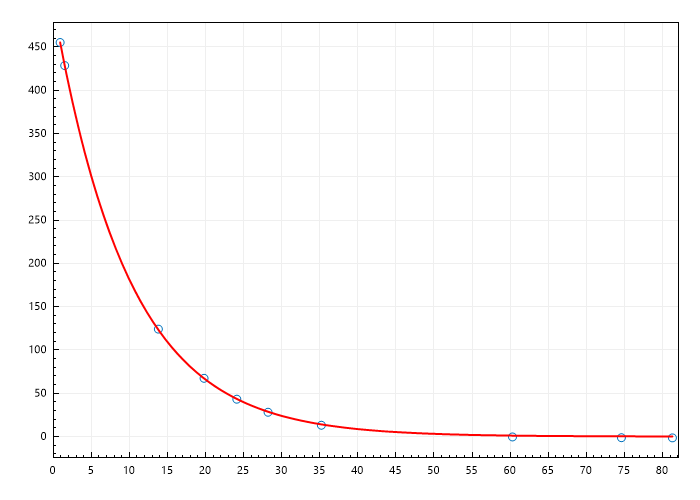
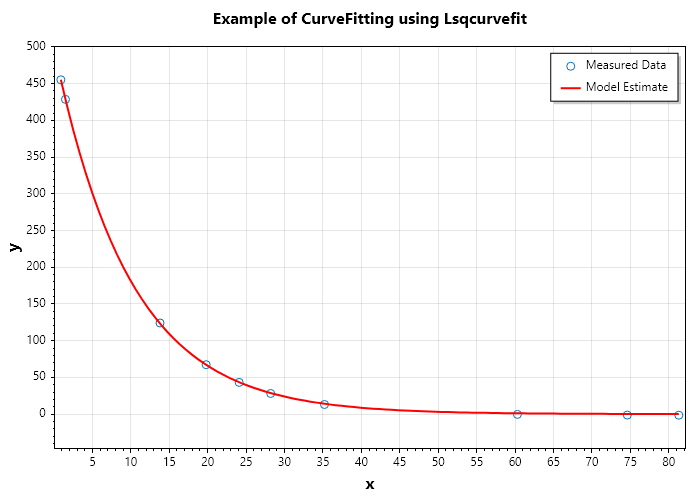
added new picture

diff --git a/docs/source/Optimization.rst b/docs/source/Optimization.rst
@@ -84,7 +84,7 @@ fzero also allows for more advanced usage with additional options:
    using static SepalSolver.Math;
 
    static double fun(double x) => Pow(x, 3) - 2 * x - 5;
-   var ops = SolverSet(Display: true);
+   var opts = SolverSet(Display: true);
    double x0 = 2;
    double root = Fzero(fun, x0, opts);
 
@@ -117,106 +117,42 @@ Root of System of Nonlinear Equation
 .. math:: x_0 = [0.1, 0.1, -0.1]^T
 
 
-.. tabs::
+.. code-block:: C#
+
+   // import libraries
+   using System;
+   using SepalSolver;
+   using static SepalSolver.Math;
+
+   double[] x0, res; ColVec x
+   // define the function
+   ColVec fun(ColVec x)
+   {
+      double x1 = x[0], x2 = x[1], x3 = x[2];
+      res = [3 * x1 - Cos(x2 * x3) - 0.5,
+             x1 * x1 - 81*Pow(x2 + 0.1, 2) + Sin(x3) + 1.06,
+             Exp(-x1 * x2) + 20 * x3 + (10 * pi - 3) / 3];
+      return res;
+   };
+            
+   // set initial guess
+   x0 = [0.1, 0.1, -0.1];
+         
+   // call the solver
+   x = Fsolve(fun, x0);
+
+   // display the result
+   Console.WriteLine(x);
+
+   Output: 
+      
+   .. code-block:: C#
+
+      0.5000
+      0.0000
+     -0.5236
+
    
-   .. tab:: CCL-Math
-      CCL-Math Implementation
-
-      .. code-block:: C#
-
-         // import libraries
-         using System;
-         using SepalSolver;
-         using static SepalSolver.Math;
-
-         double[] x0, res; ColVec x
-         // define the function
-         ColVec fun(ColVec x)
-         {
-             double x1 = x[0], x2 = x[1], x3 = x[2];
-             res = [3 * x1 - Cos(x2 * x3) - 0.5,
-                    x1 * x1 - 81*Pow(x2 + 0.1, 2) + Sin(x3) + 1.06,
-                    Exp(-x1 * x2) + 20 * x3 + (10 * pi - 3) / 3];
-             return res;
-         };
-            
-         // set initial guess
-         x0 = [0.1, 0.1, -0.1];
-         
-         // call the solver
-         x = Fsolve(fun, x0);
-
-         // display the result
-         Console.WriteLine(x);
-
-      Output: 
-      
-         .. code-block:: C#
-
-            0.5000
-            0.0000
-           -0.5236
-
-   .. tab:: Python
-
-      Python Implementation
-
-      .. code-block:: python
-
-         import numpy as np
-         from scipy.optimize import fsolve
-
-         # define function
-         def func(x):
-             x1 = x[0]; x2 = x[1]; x3 = x[2]; pi = np.pi;
-             return [3 * x1 - np.cos(x2 * x3) - 0.5,
-                     x1 * x1 - 81*(x2 + 0.1)**2 + np.sin(x3) + 1.06,
-                     np.exp(-x1 * x2) + 20 * x3 + (10 * pi - 3) / 3]
-
-
-         # set inigial guess
-         x0 = [0.1, 0.1, -0.1]
-
-         # call the solver
-         x = fsolve(func, x0)
-            
-         # display the result
-         print(x)
-
-      Output: 
-      
-         .. code-block:: python
- 
-            [ 5.00000000e-01  1.38102142e-13 -5.23598776e-01]
-
-   .. tab:: Matlab
-
-      Matlab Implementation
-
-      .. code-block:: matlab
-
-         % define the function handle
-         f = @(x)[3*x(1) - cos(x(2)*x(2)) - 1/2;
-                  x(1)^2 - 81*(x(2)+0.1)^2 + sin(x(3)) + 1.06;
-                  exp(x(1)*x(2)) + 20*x(3) + (10 * pi - 3)/3 ];
-         
-         % set initial guess
-         x0 = [0.1; 0.1; -0.1];
-
-         % call the solver
-         x = fsolve(f, x0);
-
-         % display the result
-         disp(x);
-
-      Output: 
-      
-         .. code-block:: matlab
-
-             0.5000
-             0.0000
-            -0.5236
-
 
 Linear Programming
 -------------------
@@ -302,7 +238,6 @@ Sequential Quadratic Programming
 --------------------------------
 fmincon function is a versatile tool for solving constrained nonlinear optimization problems. It finds the minimum of a scalar function subject to various constraints, including linear, nonlinear, and bound constraints using sequential quadratic programming:
 
-
    .. code-block:: C#
 
       // import libraries
@@ -338,9 +273,62 @@ fmincon function is a versatile tool for solving constrained nonlinear optimizat
 
 Least Square Fitting
 ---------------------
-    Least squares fitting is a fundamental technique used in data analysis to find the best-fitting curve or line for a set of data points by minimizing the sum of the squares of the differences between the observed values and the values predicted by the model. Sepal Solver, a powerful C# library, provides robust tools to perform least squares fitting efficiently.
+    Least squares fitting is a fundamental technique used in data analysis to find the best-fitting curve or line for a set of data points by minimizing the sum of the squares of the differences between the observed values and the values predicted by the model. 
+    Sepal Solver, Lsqcurvefit is robust tool for performing least squares fitting efficiently.
 
 Applications of Least Squares Fitting with Sepal Solver
  - Data Analysis: Fitting models to experimental data to identify trends and relationships.
  - Engineering: Modeling physical systems and processes to predict behavior under different conditions.
  - Finance: Analyzing financial data to forecast trends and make informed decisions.
+
+
+   .. code-block:: C#
+
+      // import libraries
+      using System;
+      using SepalSolver;
+      using static SepalSolver.Math;
+
+      
+      ColVec xdata, ydata, x, y_est; double[] x0;
+      xdata = new double[] { 0.9, 1.5, 13.8, 19.8, 24.1, 28.2, 35.2, 60.3, 74.6, 81.3 };
+      ydata = new double[] { 455.2, 428.6, 124.1, 67.3, 43.2, 28.1, 13.1, -0.4, -1.3, -1.5 };
+      
+      x0 = [100, -1];
+      static ColVec model(ColVec x, ColVec xdata) => x[0] * Exp(x[1] * xdata);
+      var opts = OptimSet(Display: true, MaxIter: 200, StepTol: 1e-6, OptimalityTol: 1e-6);
+      var ans = Lsqcurvefit(model, x0, xdata, ydata, options: opts);
+      Console.WriteLine($"x = {ans.x.T}");
+      
+      x = Linspace(xdata.First(), xdata.Last());
+      Scatter(xdata, ydata); hold = true;
+      Plot(x, y_est = model(ans.x, x), "r", Linewidth: 2);
+      Axis([xdata.Min()-0.01*xdata.Range(), xdata.Max()+0.01*xdata.Range(),
+           ydata.Min()-0.1*ydata.Range(), ydata.Max()+0.1*ydata.Range()]);
+       
+      Xlabel("x"); Ylabel("y"); Legend(["Measured Data", "Model Estimate"], Alignment.UpperRight);
+      Title("Example of CurveFitting using Lsqcurvefit");
+
+   Output:
+
+   .. code-block:: C#
+
+                                                  Norm of      First-order
+       Iteration   Func-count       Resnorm          step       optimality
+           0            3          3.5968e5                       2.8768e4
+           1            7          2.9148e5      4.5301e1         4.7091e1
+           2           11          1.4328e5      7.0536e1         7.8426e1
+           3           15          5.8838e4      8.1015e1         8.8027e1
+           4           19          2.1604e4      7.9171e1         6.7359e1
+           5           23          2.4371e3      8.1537e1         6.0719e1
+           6           27          6.2429e1      3.5477e1         2.4062e1
+           7           31          9.6405e0      5.5200e0         3.1853e0
+           8           35          9.5049e0     2.7383e-1        1.3930e-1
+           9           39          9.5049e0     3.5902e-3        2.1213e-3
+          10           43          9.5049e0     9.0844e-6        8.8163e-6
+      x =
+       498.8309   -0.1013
+
+   .. figure:: images/LMTest1.png
+      :align: center
+      :alt: LMTest1.png
